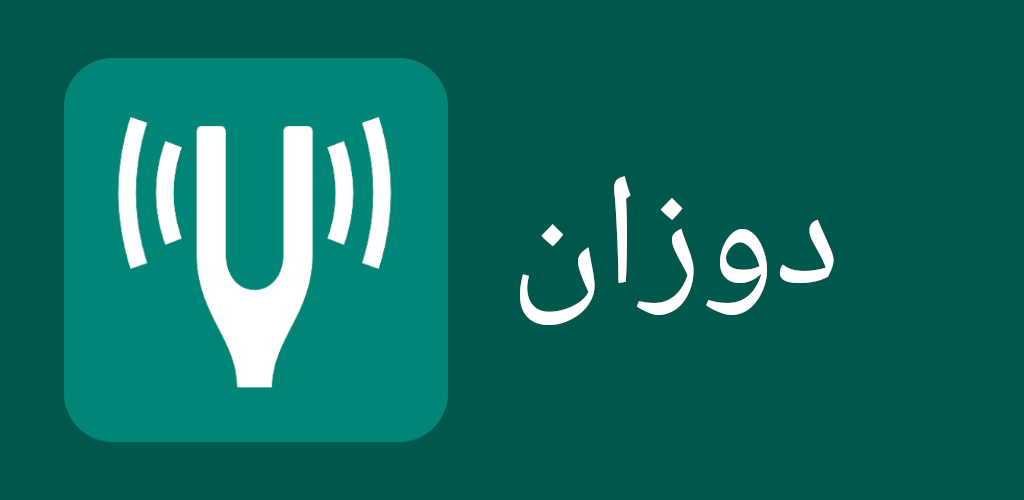
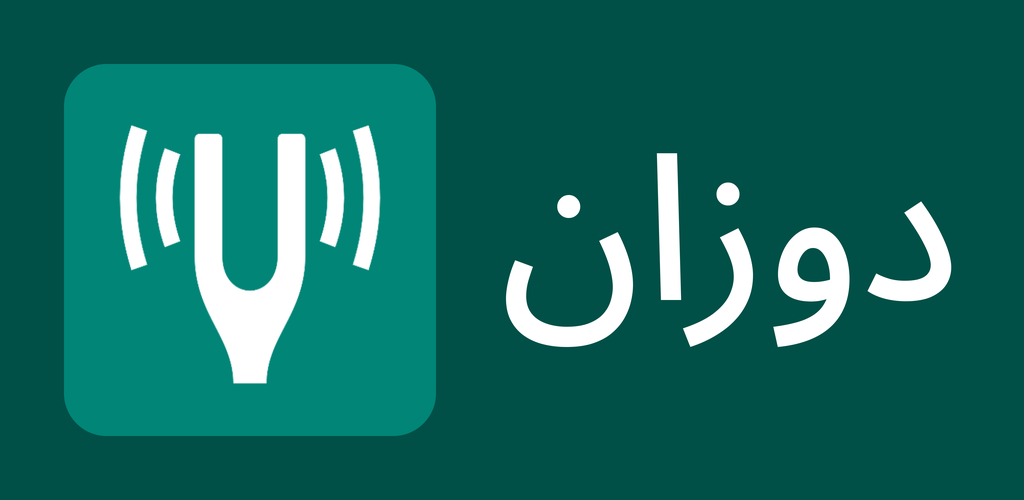
Auto-generate Play Store featureGraphic.png per locale
Replaces manually-created featureGraphic.png files with a Fastlane lane that
renders them from the app icon, the app theme colors in colors.xml, and each
locale's translated title.txt, so new or updated translations no longer need
a graphic hand-made to match. Needed fonts are fetched on first use from
google/fonts into a git-ignored local cache, so no manual font install is
required either.

diff --git a/fastlane/generate_feature_graphics.py b/fastlane/generate_feature_graphics.py
@@ -1,0 +1,257 @@
+#!/usr/bin/env python3
+
+#  This file is part of Tuner.
+#  Copyright (C) 2026 Philipp Bobek <philipp.bobek@mailbox.org>
+#
+#  This program is free software: you can redistribute it and/or modify
+#  it under the terms of the GNU General Public License as published by
+#  the Free Software Foundation, either version 3 of the License, or
+#  (at your option) any later version.
+#
+#  Tuner is distributed in the hope that it will be useful,
+#  but WITHOUT ANY WARRANTY; without even the implied warranty of
+#  MERCHANTABILITY or FITNESS FOR A PARTICULAR PURPOSE.  See the
+#  GNU General Public License for more details.
+#
+#  You should have received a copy of the GNU General Public License
+#  along with this program.  If not, see <http://www.gnu.org/licenses/>.
+
+"""
+Generates fastlane/metadata/android/<locale>/images/featureGraphic.png for every
+locale that has a translated app name, using the app icon and theme colors from
+app/src/main/res/values/colors.xml so the graphic always matches the app's branding.
+
+Layout is a 16-column grid (64px module) on a 1024x500 canvas:
+  64px margin | 384px icon | 64px gap | 448px text box | 64px margin
+
+Requires python3-pillow built with libraqm (for Arabic shaping/bidi). The Noto Sans
+fonts needed to cover this app's locales are fetched on first use from the google/fonts
+GitHub repo (pinned to GOOGLE_FONTS_COMMIT below) into fastlane/.fonts-cache/ (git-ignored),
+so no manual font installation is needed. Each cached font's SHA-256 is recorded alongside
+it at download time and re-checked on every run, to catch local cache corruption; the
+initial download itself is authenticated by HTTPS + the pinned commit hash.
+"""
+
+import hashlib
+import re
+import sys
+import urllib.request
+from PIL import Image, ImageDraw, ImageFont
+from functools import lru_cache
+from pathlib import Path
+
+REPO_ROOT = Path(__file__).resolve().parent.parent
+RES_DIR = REPO_ROOT / "app" / "src" / "main" / "res"
+COLORS_XML = RES_DIR / "values" / "colors.xml"
+APP_ICON = REPO_ROOT / "fastlane" / "metadata" / "android" / "en-US" / "images" / "icon.png"
+METADATA_DIR = REPO_ROOT / "fastlane" / "metadata" / "android"
+
+CANVAS_WIDTH = 1024
+CANVAS_HEIGHT = 500
+SUPERSAMPLE = 4
+
+MODULE = 64
+ICON_LEFT = MODULE
+ICON_SIZE = CANVAS_HEIGHT - 2 * MODULE  # 384, vertically centered
+ICON_CORNER_RATIO = 0.115
+
+TEXT_LEFT = ICON_LEFT + ICON_SIZE + MODULE  # 512
+TEXT_BOX_WIDTH = CANVAS_WIDTH - TEXT_LEFT - MODULE  # 448
+TEXT_BOX_HEIGHT = 320
+MIN_FONT_SIZE = 10
+MAX_FONT_SIZE = 300
+
+GOOGLE_FONTS_COMMIT = "2796410152d4f9524b68ed46e69c1b60f8e0f7c3"
+GOOGLE_FONTS_RAW_BASE = f"https://raw.githubusercontent.com/google/fonts/{GOOGLE_FONTS_COMMIT}/"
+FONTS_CACHE_DIR = REPO_ROOT / "fastlane" / ".fonts-cache"
+
+# Script key -> path of a standalone (non-collection) variable font file in the
+# google/fonts repo, covering the scripts this app's translated names use.
+FONTS = {
+    "latin": "ofl/notosans/NotoSans[wdth,wght].ttf",
+    "arabic": "ofl/notosansarabic/NotoSansArabic[wdth,wght].ttf",
+    "devanagari": "ofl/notosansdevanagari/NotoSansDevanagari[wdth,wght].ttf",
+    "cjk-jp": "ofl/notosansjp/NotoSansJP[wght].ttf",
+    "cjk-kr": "ofl/notosanskr/NotoSansKR[wght].ttf",
+    "cjk-sc": "ofl/notosanssc/NotoSansSC[wght].ttf",
+    "cjk-tc": "ofl/notosanstc/NotoSansTC[wght].ttf",
+}
+
+# Fastlane locale directory -> FONTS key used to render its app name.
+LOCALE_TO_FONT_KEY = {
+    "ar": "arabic",
+    "hi-IN": "devanagari",
+    "ja-JP": "cjk-jp",
+    "ko-KR": "cjk-kr",
+    "zh-CN": "cjk-sc",
+    "zh-HK": "cjk-tc",
+    "zh-TW": "cjk-tc",
+}
+DEFAULT_FONT_KEY = "latin"
+
+
+def read_color(name: str) -> tuple[int, int, int]:
+    xml = COLORS_XML.read_text(encoding="utf-8")
+    match = re.search(rf'<color name="{re.escape(name)}">#([0-9A-Fa-f]{{6}})</color>', xml)
+    if not match:
+        sys.exit(f"Color '{name}' not found in {COLORS_XML}")
+    hex_value = match.group(1)
+    return tuple(int(hex_value[i: i + 2], 16) for i in (0, 2, 4))
+
+
+def read_app_name(locale: str) -> str:
+    title_txt = METADATA_DIR / locale / "title.txt"
+    if not title_txt.exists():
+        sys.exit(f"{title_txt} does not exist")
+    return title_txt.read_text(encoding="utf-8").strip()
+
+
+@lru_cache(maxsize=None)
+def resolve_font_file(key: str) -> Path:
+    repo_path = FONTS[key]
+    filename = repo_path.rsplit("/", 1)[-1]
+    cached = FONTS_CACHE_DIR / filename
+    checksum_file = cached.with_suffix(cached.suffix + ".sha256")
+
+    if (
+            cached.exists()
+            and checksum_file.exists()
+            and checksum_file.read_text().strip() == hashlib.sha256(cached.read_bytes()).hexdigest()
+    ):
+        return cached
+
+    url = GOOGLE_FONTS_RAW_BASE + repo_path
+    print(f"Downloading font: {url}")
+    try:
+        with urllib.request.urlopen(url, timeout=30) as response:
+            data = response.read()
+    except OSError as error:
+        sys.exit(
+            f"Failed to download font from {url}: {error}\n"
+            f"Check network connectivity, or manually place the file at {cached}."
+        )
+
+    FONTS_CACHE_DIR.mkdir(parents=True, exist_ok=True)
+    tmp_file = cached.with_suffix(cached.suffix + ".part")
+    tmp_file.write_bytes(data)
+    tmp_file.replace(cached)
+    checksum_file.write_text(hashlib.sha256(data).hexdigest() + "\n")
+    return cached
+
+
+def load_font(locale: str, size: int) -> ImageFont.FreeTypeFont:
+    key = LOCALE_TO_FONT_KEY.get(locale, DEFAULT_FONT_KEY)
+    font_file = resolve_font_file(key)
+    font = ImageFont.truetype(str(font_file), size, layout_engine=ImageFont.Layout.RAQM)
+    try:
+        if b"Medium" in font.get_variation_names():
+            font.set_variation_by_name("Medium")
+    except OSError:
+        pass  # static (non-variable) font, e.g. the CJK collections
+    return font
+
+
+def _unmix(pixel: tuple[int, int, int], bg: tuple[int, int, int]) -> tuple[float, tuple[int, int, int]]:
+    """Chroma-key one pixel against a flat background color.
+
+    Assumes the icon is flat foreground color(s) anti-aliased against a solid
+    background: pixel = alpha * fg + (1 - alpha) * bg, for some unknown opaque
+    fg and alpha. Recovers both by casting a ray from bg through pixel and
+    finding where it exits the RGB cube - that exit point is fg (saturated on
+    at least one channel), and how far pixel already sits along that ray is
+    alpha. This works for any foreground color, not just black/white, as long
+    as it differs from the background.
+    """
+    diffs = tuple(p - bg_c for p, bg_c in zip(pixel, bg))
+    if diffs == (0, 0, 0):
+        return 0.0, bg
+
+    t_max = float("inf")
+    for d, bg_c in zip(diffs, bg):
+        if d > 0:
+            t_max = min(t_max, (255 - bg_c) / d)
+        elif d < 0:
+            t_max = min(t_max, -bg_c / d)
+    alpha = min(1.0, 1.0 / t_max)
+    fg = tuple(round(min(255.0, max(0.0, bg_c + d / alpha))) for d, bg_c in zip(diffs, bg))
+    return alpha, fg
+
+
+def build_logo(size: int, square_color: tuple[int, int, int]) -> Image.Image:
+    hi_res = size * SUPERSAMPLE
+    icon = Image.open(APP_ICON).convert("RGB")
+    icon_px = icon.load()
+    bg = icon_px[0, 0]
+
+    glyph = Image.new("RGBA", icon.size, (255, 255, 255, 0))
+    glyph_px = glyph.load()
+    for y in range(icon.size[1]):
+        for x in range(icon.size[0]):
+            alpha, fg = _unmix(icon_px[x, y], bg)
+            glyph_px[x, y] = (*fg, round(alpha * 255))
+    glyph = glyph.resize((hi_res, hi_res), Image.LANCZOS)
+
+    logo = Image.new("RGBA", (hi_res, hi_res), (0, 0, 0, 0))
+    draw = ImageDraw.Draw(logo)
+    draw.rounded_rectangle(
+        (0, 0, hi_res - 1, hi_res - 1),
+        radius=round(hi_res * ICON_CORNER_RATIO),
+        fill=(*square_color, 255),
+    )
+    logo.alpha_composite(glyph)
+    return logo.resize((size, size), Image.LANCZOS)
+
+
+def fit_font_size(locale: str, text: str) -> ImageFont.FreeTypeFont:
+    target_w = TEXT_BOX_WIDTH * SUPERSAMPLE
+    target_h = TEXT_BOX_HEIGHT * SUPERSAMPLE
+    lo, hi = MIN_FONT_SIZE, MAX_FONT_SIZE * SUPERSAMPLE
+    best = load_font(locale, lo)
+    scratch = ImageDraw.Draw(Image.new("RGB", (1, 1)))
+    while lo <= hi:
+        mid = (lo + hi) // 2
+        font = load_font(locale, mid)
+        left, top, right, bottom = scratch.textbbox((0, 0), text, font=font)
+        if (right - left) <= target_w and (bottom - top) <= target_h:
+            best = font
+            lo = mid + 1
+        else:
+            hi = mid - 1
+    return best
+
+
+def render_feature_graphic(locale: str, background: tuple, icon_bg: tuple, text_color: tuple) -> Image.Image:
+    text = read_app_name(locale)
+    scale = SUPERSAMPLE
+    canvas = Image.new("RGB", (CANVAS_WIDTH * scale, CANVAS_HEIGHT * scale), background)
+    draw = ImageDraw.Draw(canvas)
+
+    logo = build_logo(ICON_SIZE * scale, icon_bg)
+    canvas.paste(logo, (ICON_LEFT * scale, MODULE * scale), logo)
+
+    font = fit_font_size(locale, text)
+    left, top, right, bottom = draw.textbbox((0, 0), text, font=font)
+    x = TEXT_LEFT * scale - left
+    y = (CANVAS_HEIGHT * scale) // 2 - (bottom - top) // 2 - top
+    draw.text((x, y), text, font=font, fill=text_color)
+
+    return canvas.resize((CANVAS_WIDTH, CANVAS_HEIGHT), Image.LANCZOS)
+
+
+def main() -> None:
+    background = read_color("md_theme_dark_primaryContainer")
+    icon_bg = read_color("seed")
+    text_color = read_color("md_theme_light_onPrimary")
+
+    locales = sorted(p.name for p in METADATA_DIR.iterdir() if p.is_dir())
+    for locale in locales:
+        image = render_feature_graphic(locale, background, icon_bg, text_color)
+        out_dir = METADATA_DIR / locale / "images"
+        out_dir.mkdir(parents=True, exist_ok=True)
+        out_path = out_dir / "featureGraphic.png"
+        image.save(out_path, "PNG")
+        print(f"Wrote {out_path}")
+
+
+if __name__ == "__main__":
+    main()

diff --git a/CLAUDE.md b/CLAUDE.md
@@ -34,6 +34,13 @@ bundle exec fastlane android setup_screenshot_emulators # just (re-)create the S
 bundle exec fastlane android grab_screen_phone          # requires a connected/already-running device
 bundle exec fastlane android grab_screen_seven_inch
 bundle exec fastlane android grab_screen_ten_inch
+
+# Regenerate fastlane/metadata/android/*/images/featureGraphic.png from the app icon,
+# app/src/main/res/values/colors.xml theme colors, and each locale's translated app name.
+# Requires python3-pillow (built with libraqm). Needed fonts are downloaded automatically
+# on first run into fastlane/.fonts-cache/ (git-ignored), so a network connection is
+# needed the first time only.
+bundle exec fastlane android generate_feature_graphics
 ```
 
 Fastlane release builds require env vars: `KEYSTORE_FILE`, `KEYSTORE_PASSWORD`, `KEY_ALIAS`, `KEY_PASSWORD`.

diff --git a/fastlane/README.md b/fastlane/README.md
@@ -79,6 +79,14 @@ Grab all screenshots, booting each screenshot emulator in turn
 
 Create the Screenshots_* AVDs on this machine if they don't already exist
 
+### android generate_feature_graphics
+
+```sh
+[bundle exec] fastlane android generate_feature_graphics
+```
+
+Regenerate featureGraphic.png for every fastlane locale from the app icon, theme colors and translated app name
+
 ----
 
 This README.md is auto-generated and will be re-generated every time [_fastlane_](https://fastlane.tools) is run.
